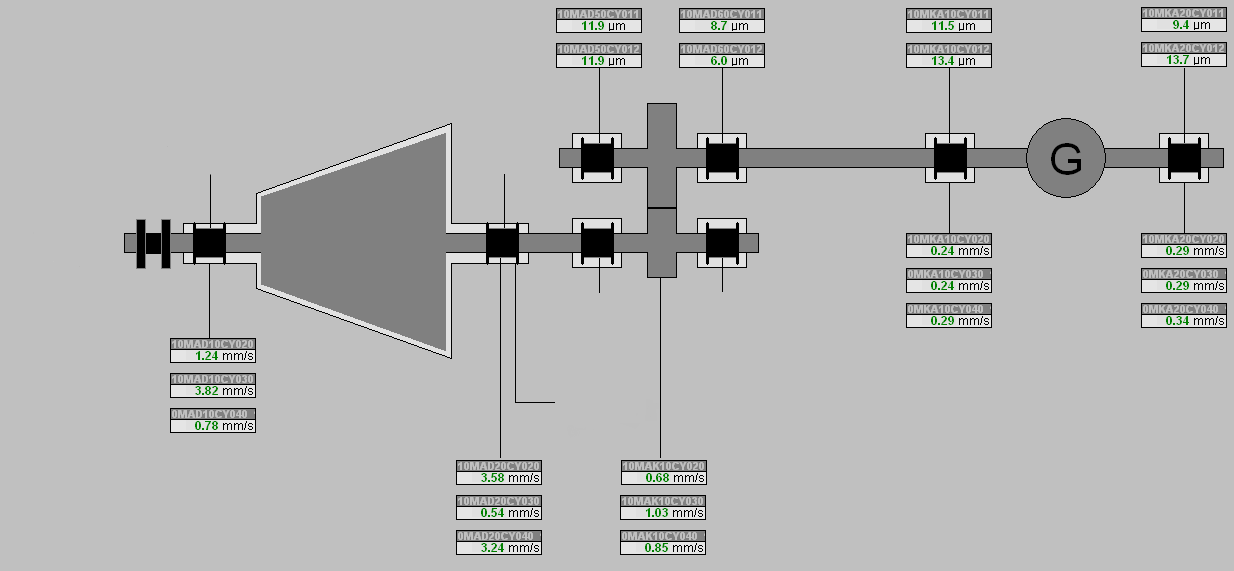
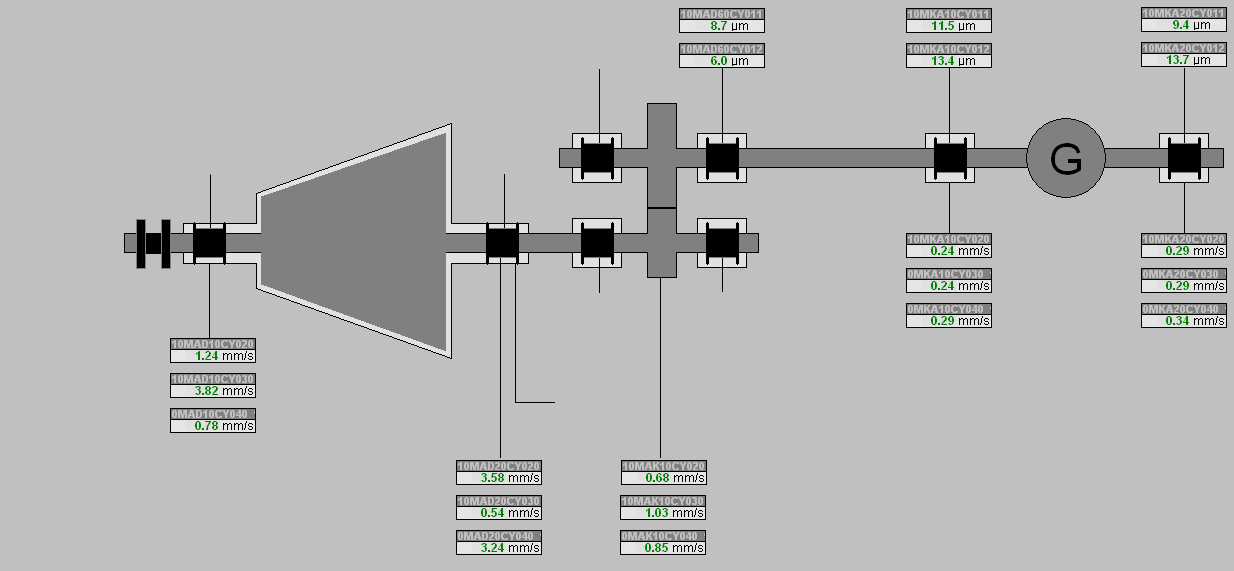
Добавленоы два параметра.

Changed region(s): [[0.4311, 0.0, 0.5235, 0.1191]]

diff --git a/BN/Views/Window/MainWindow.xaml b/BN/Views/Window/MainWindow.xaml
@@ -42,6 +42,8 @@
                     <Border Style="{StaticResource BorderForLabel}"  Margin="499,290,0,0" Background="{Binding bckgrd_10MAD30CY012}"/>
                     <Border Style="{StaticResource BorderForLabel}"  Margin="611,269,0,0" Background="{Binding bckgrd_10MAD40CY011}"/>
                     <Border Style="{StaticResource BorderForLabel}"  Margin="611,290,0,0" Background="{Binding bckgrd_10MAD40CY012}"/>
+                    <Border Style="{StaticResource BorderForLabel}"  Margin="499,21,0,0" Background="{Binding bckgrd_10MAD50CY011}"/>
+                    <Border Style="{StaticResource BorderForLabel}"  Margin="499,41,0,0" Background="{Binding bckgrd_10MAD50CY012}"/>
                     <Label Content="{Binding prm_10MAD10CG012}" Style="{StaticResource Parent_LabelOnImage}" Margin="31,229,0,0" ToolTip="10MAD10CG012"/>
                     <Label Content="{Binding prm_10MAD10CG011}" Style="{StaticResource Parent_LabelOnImage}" Margin="31,208,0,0" ToolTip="10MAD10CG011"/>
                     <Label Content="{Binding prm_10MAD10CG010}" Style="{StaticResource Parent_LabelOnImage}" Margin="31,187,0,0" ToolTip="10MAD10CG010"/>
@@ -54,6 +56,8 @@
                     <Label Content="{Binding prm_10MAD30CY012}" Style="{StaticResource Child_0_LabelOnImage}" Margin="504,285,0,0" ToolTip="10MAD30CY012"/>
                     <Label Content="{Binding prm_10MAD40CY011}" Style="{StaticResource Child_0_LabelOnImage}" Margin="616,264,0,0" ToolTip="10MAD40CY011"/>
                     <Label Content="{Binding prm_10MAD40CY012}" Style="{StaticResource Child_0_LabelOnImage}" Margin="616,285,0,0" ToolTip="10MAD40CY012"/>
+                    <Label Content="{Binding prm_10MAD50CY011}" Style="{StaticResource Child_0_LabelOnImage}" Margin="504,16,0,0" ToolTip="10MAD50CY011"/>
+                    <Label Content="{Binding prm_10MAD50CY012}" Style="{StaticResource Child_0_LabelOnImage}" Margin="504,36,0,0" ToolTip="10MAD50CY012"/>
                 </Grid>
             </TabItem>
             <TabItem Header="ГТ-7">

diff --git a/BN/ViewModels/Base/MainWindowViewModel.cs b/BN/ViewModels/Base/MainWindowViewModel.cs
@@ -168,6 +168,20 @@ namespace BN.ViewModels.Base
             get => _bckgrd_10MAD40CY012;
             set => Set(ref _bckgrd_10MAD40CY012, value);
         }
+
+        private string _bckgrd_10MAD50CY011;
+        public string bckgrd_10MAD50CY011
+        {
+            get => _bckgrd_10MAD50CY011;
+            set => Set(ref _bckgrd_10MAD50CY011, value);
+        }
+
+        private string _bckgrd_10MAD50CY012;
+        public string bckgrd_10MAD50CY012
+        {
+            get => _bckgrd_10MAD50CY012;
+            set => Set(ref _bckgrd_10MAD50CY012, value);
+        }
         #endregion
 
         #region Фон для StatusBar_st6 
@@ -309,6 +323,20 @@ namespace BN.ViewModels.Base
             set => Set(ref _prm_10MAD40CY012, value);
         }
 
+        private double _prm_10MAD50CY011;
+        public double prm_10MAD50CY011
+        {
+            get => _prm_10MAD50CY011;
+            set => Set(ref _prm_10MAD50CY011, value);
+        }
+
+        private double _prm_10MAD50CY012;
+        public double prm_10MAD50CY012
+        {
+            get => _prm_10MAD50CY012;
+            set => Set(ref _prm_10MAD50CY012, value);
+        }
+
 
         #endregion
 
@@ -397,6 +425,8 @@ namespace BN.ViewModels.Base
                                     prm_10MAD30CY012 = rtrn_prm_st6_gr0[5];
                                     prm_10MAD40CY011 = rtrn_prm_st6_gr0[6];
                                     prm_10MAD40CY012 = rtrn_prm_st6_gr0[7];
+                                    prm_10MAD50CY011 = rtrn_prm_st6_gr0[8];
+                                    prm_10MAD50CY012 = rtrn_prm_st6_gr0[9];
 
                                     prm_10MAD10CG010 = rtrn_prm_st6_gr1[0];
                                     prm_10MAD10CG011 = rtrn_prm_st6_gr1[1];
@@ -411,6 +441,8 @@ namespace BN.ViewModels.Base
                                     bckgrd_10MAD30CY012 = bckgrd_st6_gr0[5];
                                     bckgrd_10MAD40CY011 = bckgrd_st6_gr0[6];
                                     bckgrd_10MAD40CY012 = bckgrd_st6_gr0[7];
+                                    bckgrd_10MAD50CY011 = bckgrd_st6_gr0[8];
+                                    bckgrd_10MAD50CY012 = bckgrd_st6_gr0[9];
 
                                     bckgrd_10MAD10CG010 = bckgrd_st6_gr1[0];
                                     bckgrd_10MAD10CG011 = bckgrd_st6_gr1[1];
